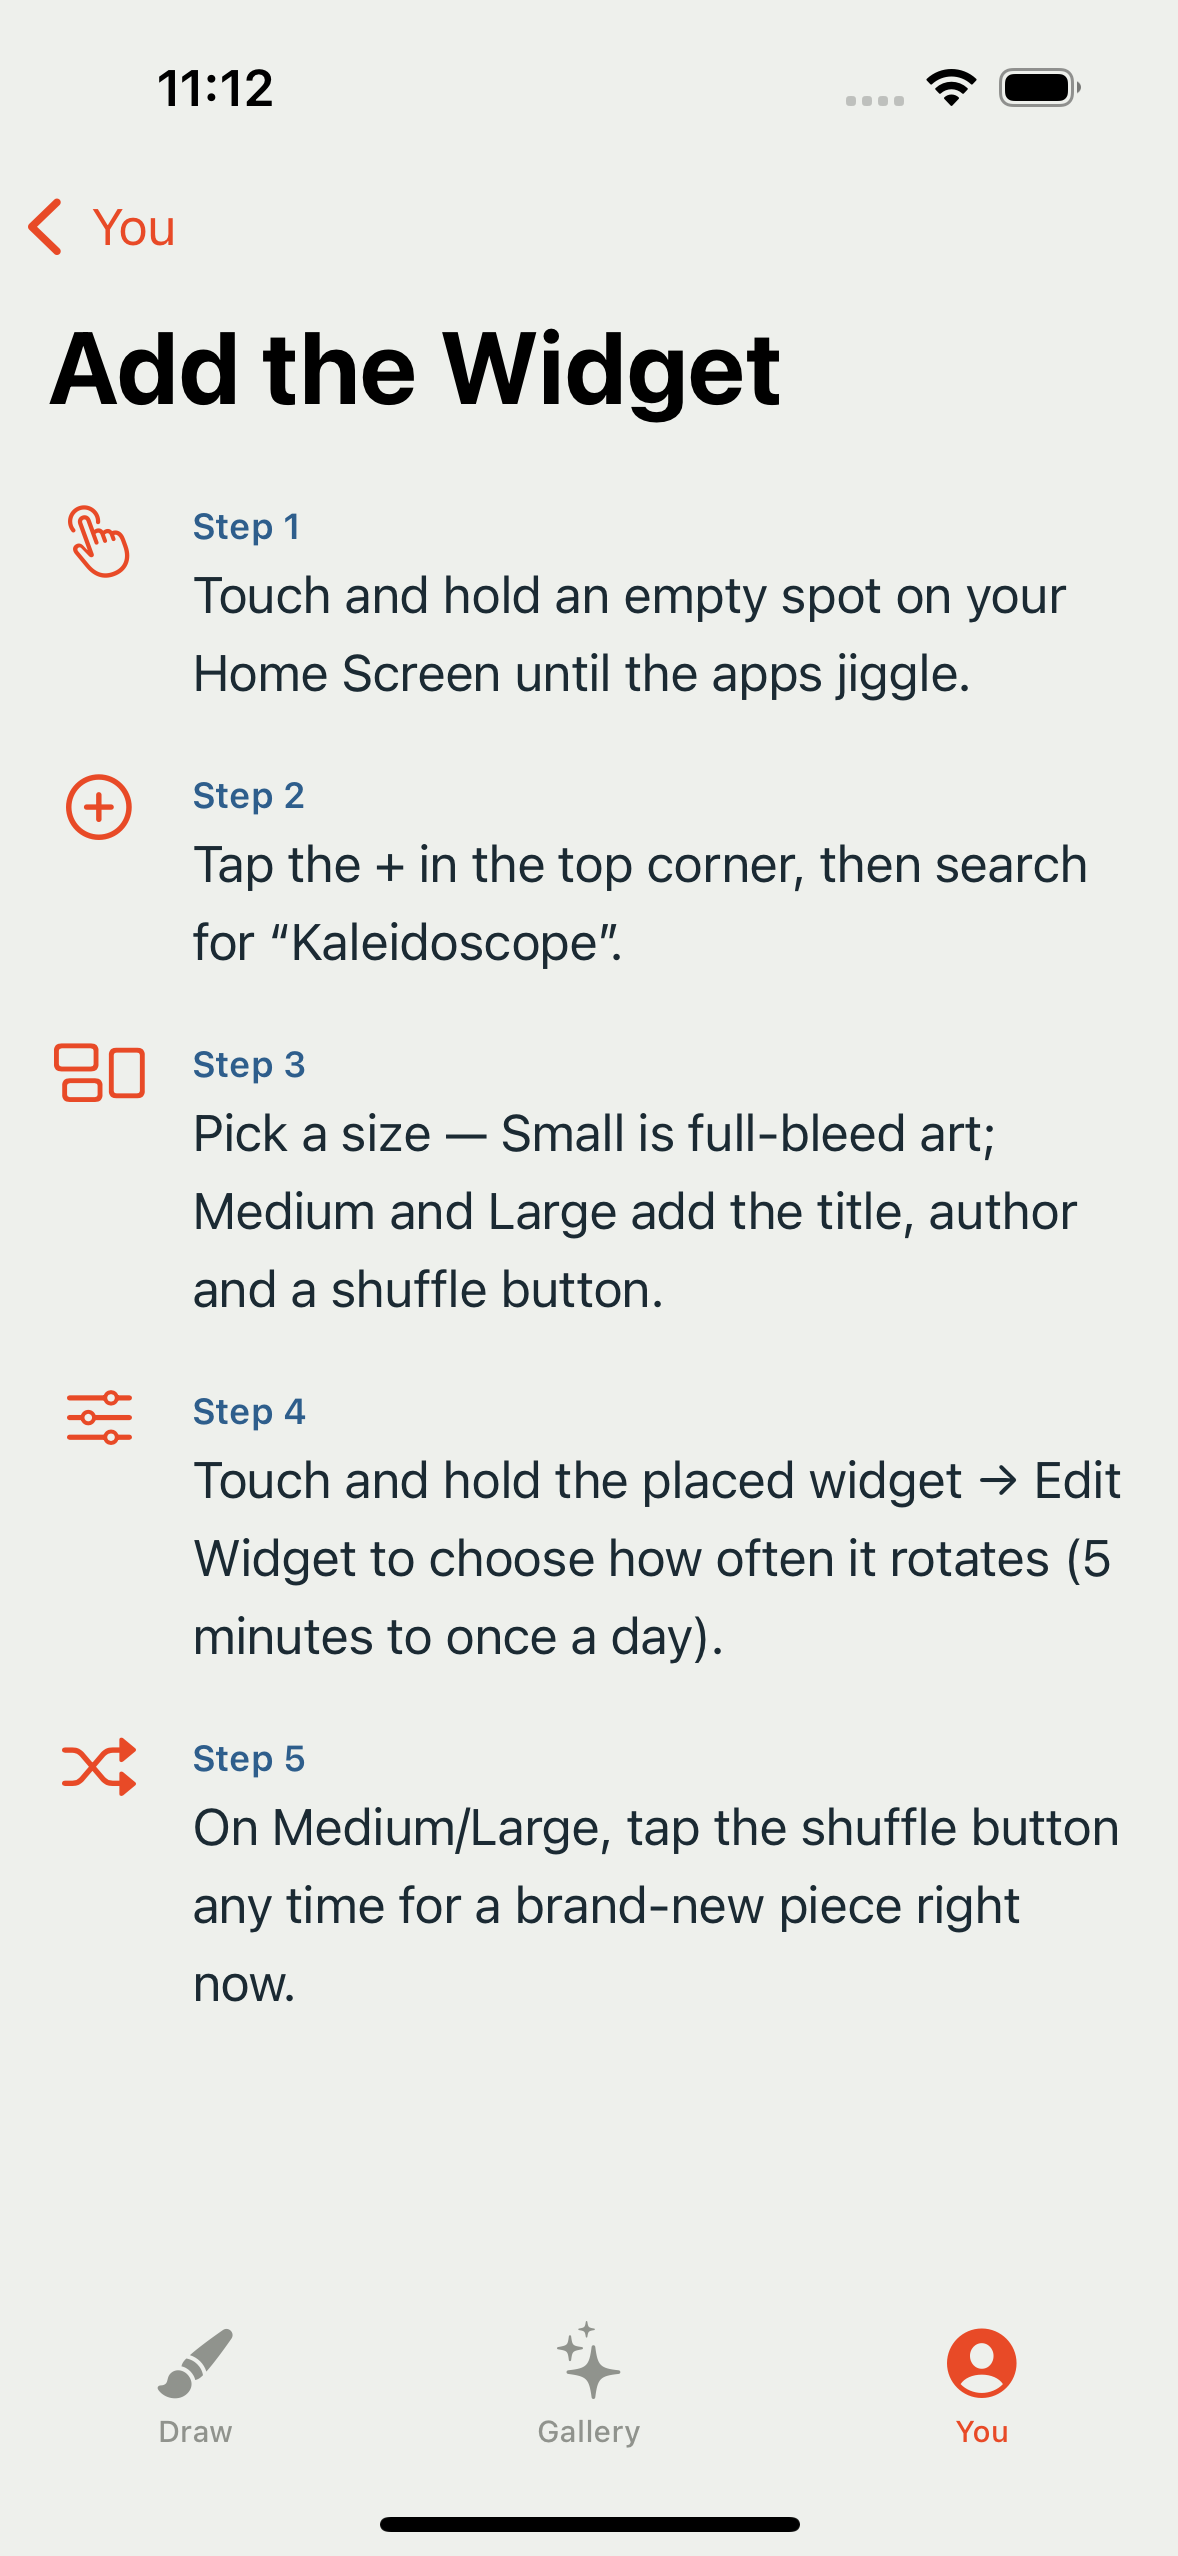
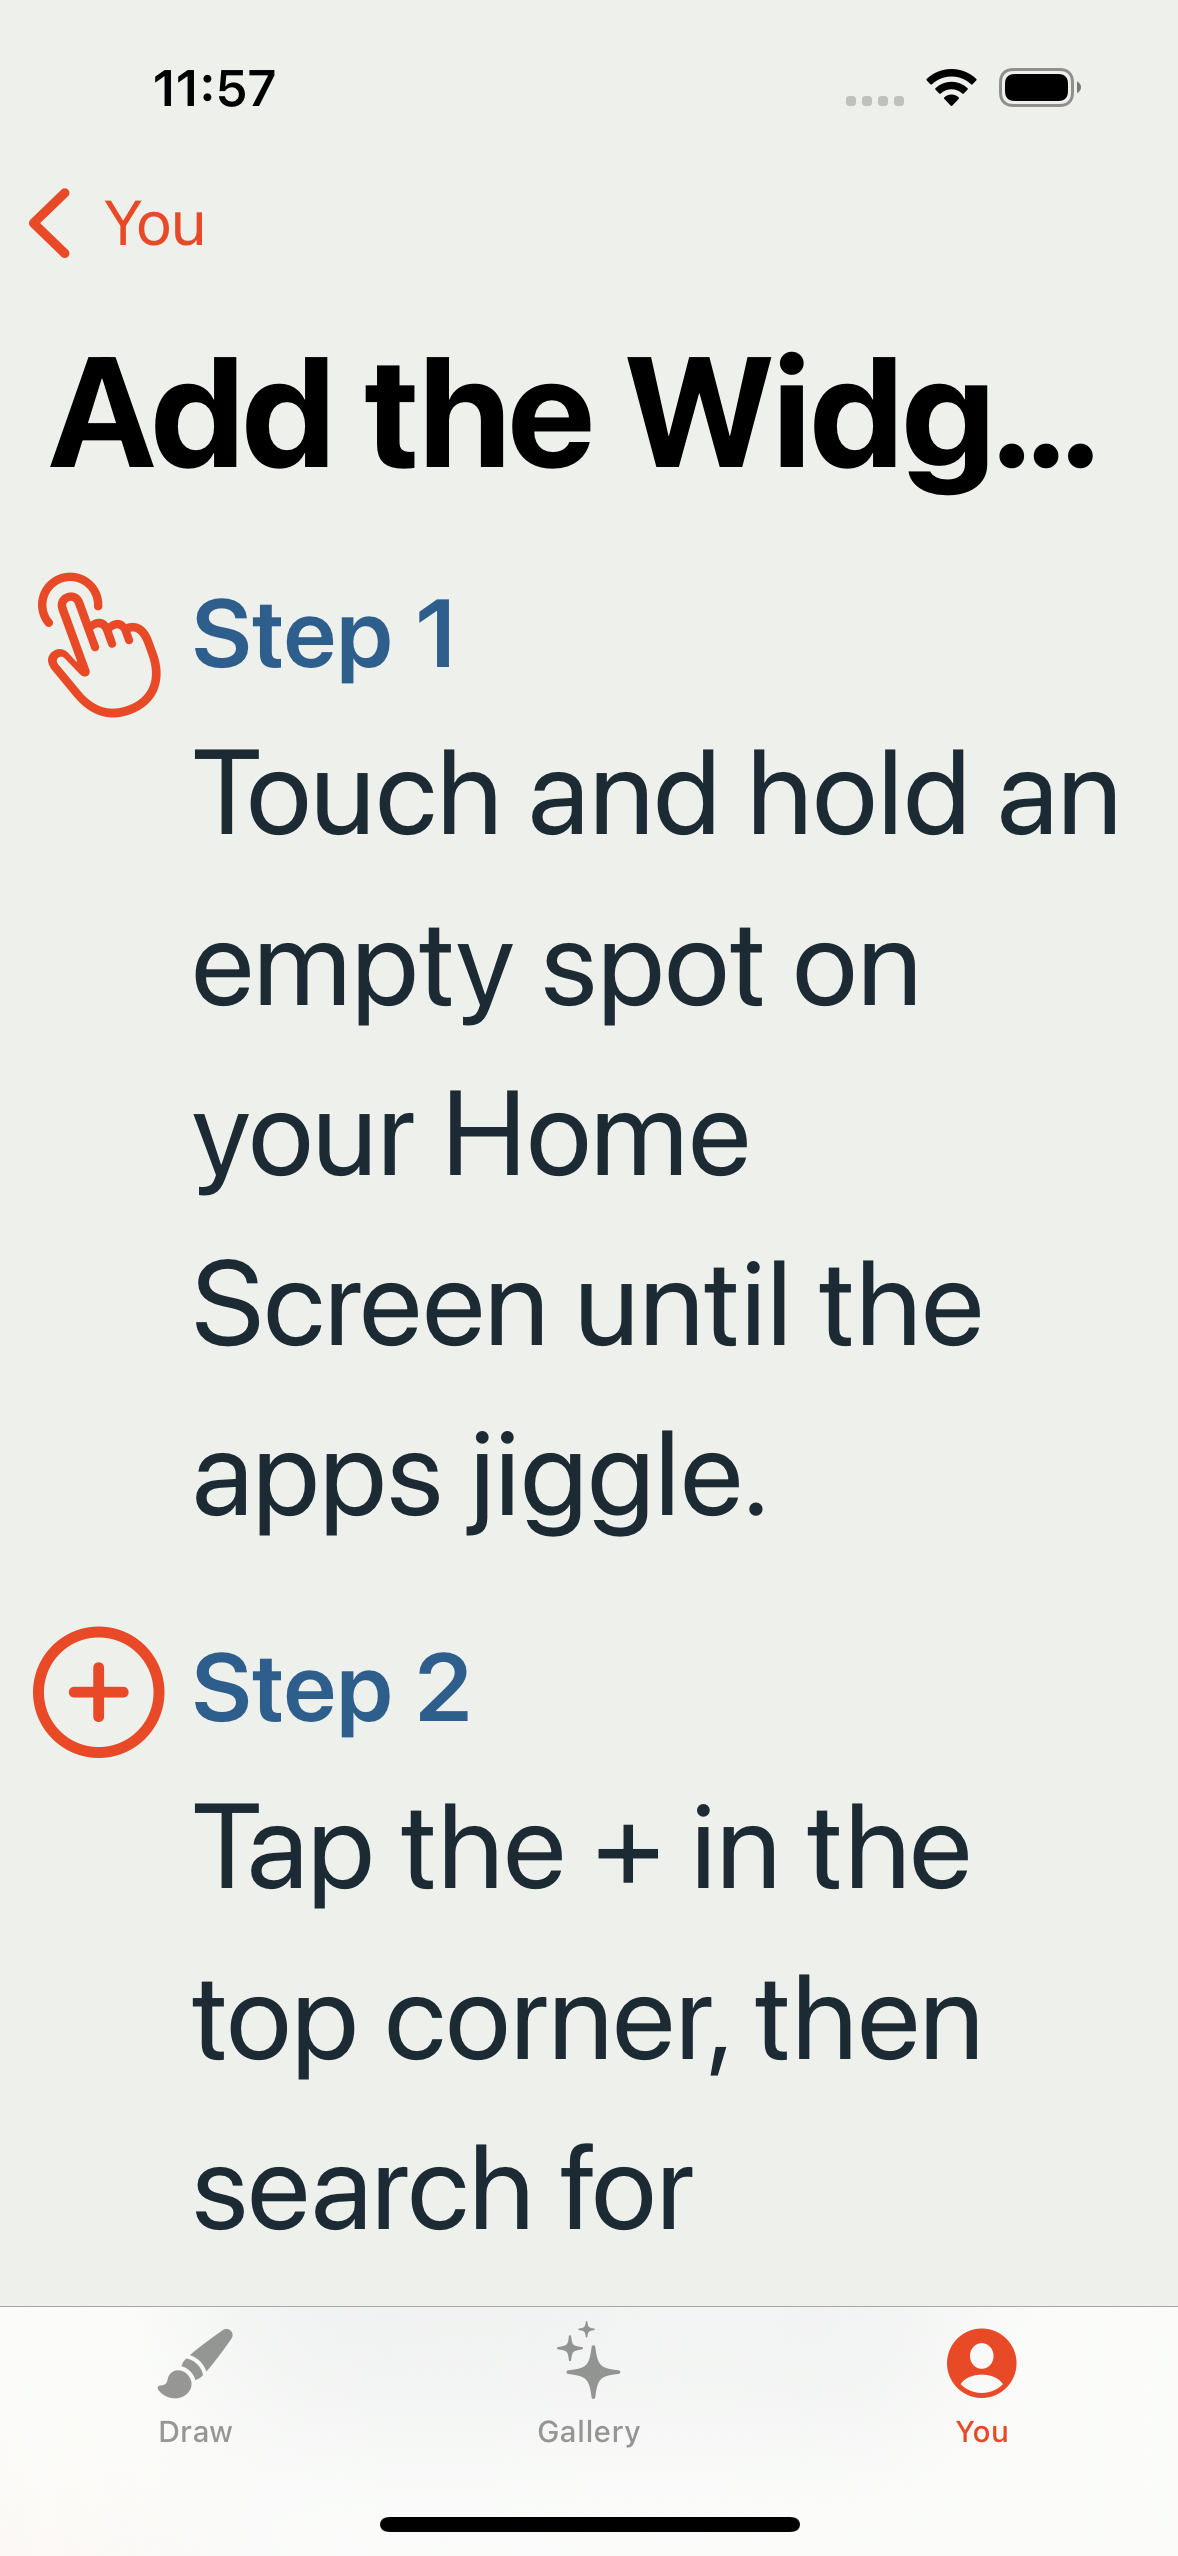
Re-capture accessibility3 screenshots at true AX3; fix button label wrap
The prior "accessibility3" screenshots were actually default-size: the launch
string UICTContentSizeCategoryAccessibilityExtraLarge is invalid and silently
falls back to default. Recaptured with the correct UICTContentSizeCategoryAccessibilityXL
(verified byte-identical to the OS global accessibility-extra-large reference).

True AX3 surfaced button-label defects that the default-size shots hid: Remix and
Shuffle wrapped mid-word and ballooned. Fixed with lineLimit(1)+minimumScaleFactor
(and layoutPriority on Remix so it claims its label width) on Remix, Shuffle,
Open-on-the-web, Try again, and Continue-with-Google. Gallery author names re-blurred
at the new coordinates; artwork detail uses the owner's own frendalist piece.

Known AX3 tradeoff: the artwork action row can't fit everything full-size, so the
Like count is visually squeezed (VoiceOver still announces it) and the Studio action
row sits below the fold (scrollable).

Claude-Session: https://claude.ai/code/session_01U1R21Uoqm5tLFpFWGHgBra

diff --git a/ios/UITests/AccessibilityUITests.swift b/ios/UITests/AccessibilityUITests.swift
@@ -44,17 +44,22 @@ final class AccessibilityUITests: XCTestCase {
 
     // MARK: - accessibility3 screenshot walk
 
-    /// Captures every no-auth screen at the largest Dynamic Type size
-    /// (`AccessibilityExtraLarge` = .accessibility3) so a human can eyeball for
-    /// clipped/overlapping text. Screenshots are attached (kept always) and later
-    /// extracted from the .xcresult. Network-backed screens (Gallery cards,
-    /// Artwork, Shuffle) are captured only if the production backend responds;
-    /// otherwise they're skipped (attachment simply absent) — never faked.
+    /// Captures every no-auth screen at .accessibility3 (accessibilityExtraLarge)
+    /// so a human can eyeball for clipped/overlapping text. Screenshots are
+    /// attached (kept always) and later extracted from the .xcresult. Network-
+    /// backed screens (Gallery cards, Artwork, Shuffle) are captured only if the
+    /// production backend responds; otherwise skipped — never faked.
+    ///
+    /// The category string MUST be the short form `…AccessibilityXL`. The long
+    /// form `…AccessibilityExtraLarge` is NOT a valid UIContentSizeCategory raw
+    /// value and UIKit silently falls back to the default size (verified: it
+    /// renders byte-identical to no-arg, and `…AccessibilityXL` renders identical
+    /// to the OS global `accessibility-extra-large` setting).
     func testAccessibility3Screens() {
         let app = XCUIApplication()
         // Force .accessibility3 for this launch only (no global sim setting).
         app.launchArguments += ["-UIPreferredContentSizeCategoryName",
-                                "UICTContentSizeCategoryAccessibilityExtraLarge"]
+                                "UICTContentSizeCategoryAccessibilityXL"]
         app.launchEnvironment["KALEIDO_DEMO"] = "1" // give the studio content
         app.launch()
 
@@ -112,8 +117,13 @@ final class AccessibilityUITests: XCTestCase {
             if app.navigationBars.buttons.firstMatch.exists { app.navigationBars.buttons.firstMatch.tap() }
         }
 
-        // 8) About screen.
-        if app.buttons["About Kaleidoscope"].exists {
+        // 8) About screen. At large text the Explore rows sit below the fold —
+        // scroll to realize the row before tapping.
+        var aboutTries = 0
+        while !app.buttons["About Kaleidoscope"].exists && aboutTries < 6 {
+            app.swipeUp(); aboutTries += 1
+        }
+        if app.buttons["About Kaleidoscope"].waitForExistence(timeout: 8) {
             app.buttons["About Kaleidoscope"].tap()
             _ = app.navigationBars["About"].waitForExistence(timeout: 5)
             snap(app, "08-about")
@@ -134,10 +144,33 @@ final class AccessibilityUITests: XCTestCase {
     /// "frendalist" (shows "by Anmol Saxena" — the owner's own name, fine to
     /// display) rather than an arbitrary other-user piece. Same .accessibility3
     /// launch arg. Used to replace 04-artwork-detail with a privacy-safe shot.
+    /// Focused .accessibility3 capture of the About screen (text-heavy), separate
+    /// so a flaky navigation in the main walk can't drop it.
+    func testAccessibility3About() {
+        let app = XCUIApplication()
+        app.launchArguments += ["-UIPreferredContentSizeCategoryName",
+                                "UICTContentSizeCategoryAccessibilityXL"]
+        app.launchEnvironment["KALEIDO_DEMO"] = "1"
+        app.launch()
+        app.tabBars.buttons["You"].tap()
+        // At .accessibility3 the Explore rows sit below the fold — scroll to
+        // realize the "About Kaleidoscope" row before tapping it.
+        let about = app.buttons["About Kaleidoscope"]
+        var tries = 0
+        while !about.exists && tries < 6 {
+            app.swipeUp()
+            tries += 1
+        }
+        XCTAssertTrue(about.waitForExistence(timeout: 5))
+        about.tap()
+        XCTAssertTrue(app.navigationBars["About"].waitForExistence(timeout: 8))
+        snap(app, "08-about")
+    }
+
     func testAccessibility3FrendalistArtwork() {
         let app = XCUIApplication()
         app.launchArguments += ["-UIPreferredContentSizeCategoryName",
-                                "UICTContentSizeCategoryAccessibilityExtraLarge"]
+                                "UICTContentSizeCategoryAccessibilityXL"]
         app.launchEnvironment["KALEIDO_DEMO"] = "1"
         app.launch()
 
@@ -164,6 +197,35 @@ final class AccessibilityUITests: XCTestCase {
                       || app.staticTexts["frendalist"].exists,
                       "detail should be the frendalist piece")
         snap(app, "04-artwork-detail")
+    }
+
+    // MARK: - Dynamic Type string verification
+
+    /// Launches the Studio at a given content-size category (or none) and snaps
+    /// it, so we can compare the correct `…AccessibilityXL` string against the
+    /// (suspect) `…AccessibilityExtraLarge` string and the no-arg default, and
+    /// tell whether the committed set is truly .accessibility3.
+    private func captureStudio(category: String?, name: String) {
+        let app = XCUIApplication()
+        if let category {
+            app.launchArguments += ["-UIPreferredContentSizeCategoryName", category]
+        }
+        app.launchEnvironment["KALEIDO_DEMO"] = "1"
+        app.launch()
+        XCTAssertTrue(app.otherElements["Drawing canvas"].waitForExistence(timeout: 15))
+        snap(app, name)
+    }
+
+    func testVerifyStudioXL() {
+        captureStudio(category: "UICTContentSizeCategoryAccessibilityXL", name: "verify-studio-XL")
+    }
+
+    func testVerifyStudioOldString() {
+        captureStudio(category: "UICTContentSizeCategoryAccessibilityExtraLarge", name: "verify-studio-OLD")
+    }
+
+    func testVerifyStudioDefault() {
+        captureStudio(category: nil, name: "verify-studio-DEFAULT")
     }
 
     /// Attach a full-screen screenshot, kept regardless of test outcome.

diff --git a/ios/App/ShuffleViewer.swift b/ios/App/ShuffleViewer.swift
@@ -115,6 +115,8 @@ struct ShuffleViewer: View {
                 Button { advance() } label: {
                     Label("Shuffle", systemImage: "shuffle")
                         .foregroundStyle(.white) // pin white so the label isn't system-picked
+                        .lineLimit(1)
+                        .minimumScaleFactor(0.6) // scale down at large text instead of wrapping mid-word
                 }
                 .buttonStyle(.borderedProminent)
                 .tint(Blueprint.craneButton)
@@ -123,6 +125,8 @@ struct ShuffleViewer: View {
                 if let url = URL(string: item.permalink) {
                     Button { openURL(url) } label: {
                         Label("Open on the web", systemImage: "safari")
+                            .lineLimit(1)
+                            .minimumScaleFactor(0.6)
                     }
                     .buttonStyle(.bordered)
                     .tint(Blueprint.crease)
@@ -144,7 +148,10 @@ struct ShuffleViewer: View {
                 .multilineTextAlignment(.center)
                 .foregroundStyle(Blueprint.graphite)
             Button { Task { await model.load() } } label: {
-                Text("Try again").foregroundStyle(.white) // pin white so the label isn't system-picked
+                Text("Try again")
+                    .foregroundStyle(.white) // pin white so the label isn't system-picked
+                    .lineLimit(1)
+                    .minimumScaleFactor(0.6)
             }
             .buttonStyle(.borderedProminent)
             .tint(Blueprint.craneButton)

diff --git a/ios/App/Content/ArtworkView.swift b/ios/App/Content/ArtworkView.swift
@@ -75,9 +75,14 @@ struct ArtworkView: View {
             Button { Task { await remix() } } label: {
                 Label("Remix", systemImage: "arrow.triangle.branch")
                     .foregroundStyle(.white) // pin white so the label isn't system-picked
+                    .lineLimit(1)
+                    .minimumScaleFactor(0.6) // scale down at large text instead of wrapping mid-word
             }
             .buttonStyle(.borderedProminent)
             .tint(Blueprint.creaseButton)
+            // Claim label width before the row's Spacer absorbs it, so the label
+            // reads "Remix" (not "Re…") at large text instead of compressing.
+            .layoutPriority(1)
             .disabled(busy)
             .accessibilityHint("Loads this piece into the studio to edit")
 

diff --git a/ios/App/Auth/AuthSheet.swift b/ios/App/Auth/AuthSheet.swift
@@ -72,6 +72,8 @@ struct AuthSheet: View {
                     HStack(spacing: 8) {
                         Image(systemName: "globe")
                         Text("Continue with Google").fontWeight(.medium)
+                            .lineLimit(1)
+                            .minimumScaleFactor(0.6) // scale down at large text instead of truncating
                     }
                     .frame(maxWidth: .infinity)
                     .frame(height: buttonHeight)
